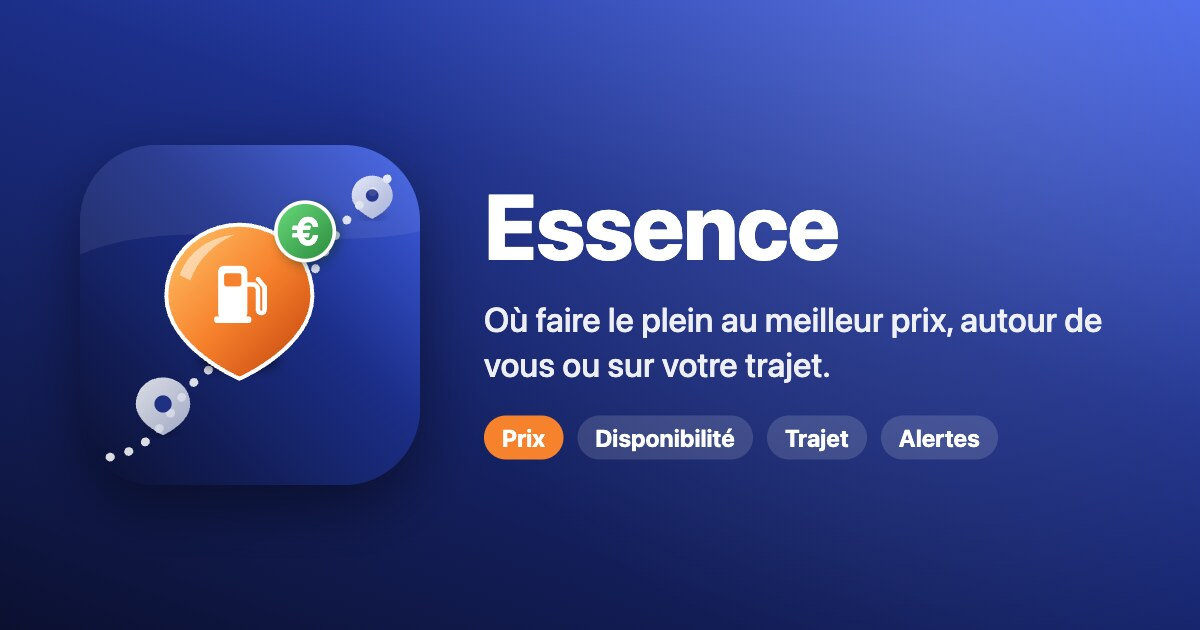
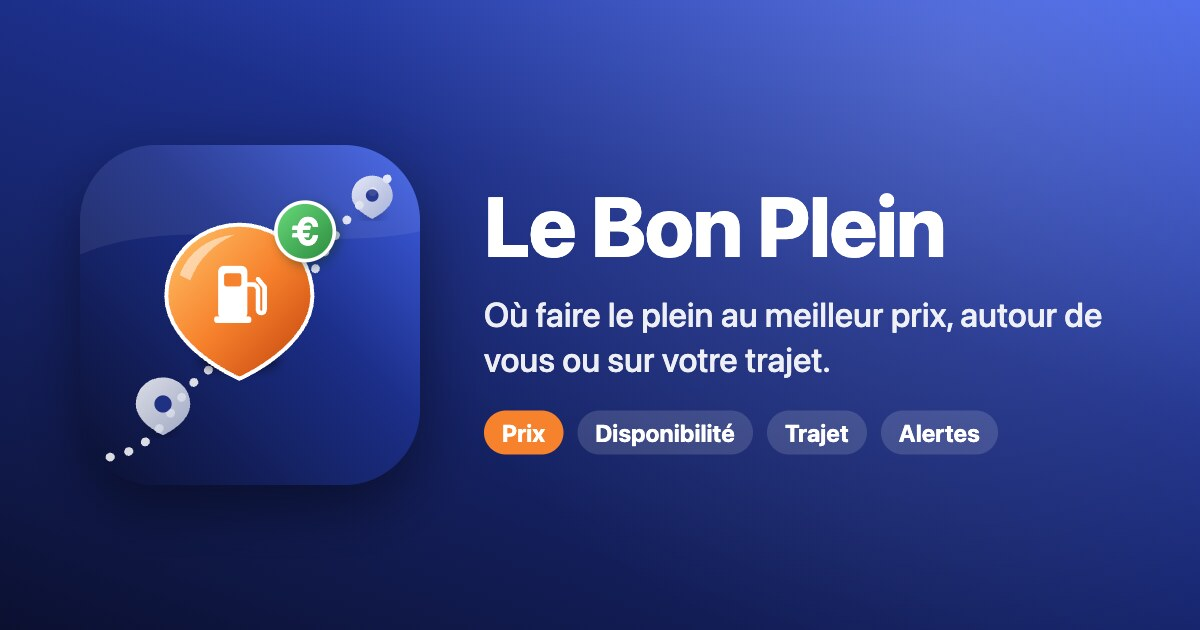
L'app s'appelle « Le Bon Plein »
Titre de la page, nom sous l'icône de l'app installée, balises et image
d'aperçu Open Graph, notification par défaut et README. Le dépôt garde son
nom essence-tracker.

diff --git a/index.html b/index.html
@@ -3,18 +3,18 @@
 <head>
 <meta charset="utf-8">
 <meta name="viewport" content="width=device-width, initial-scale=1, viewport-fit=cover">
-<title>Essence</title>
+<title>Le Bon Plein</title>
 <meta name="description" content="Où faire le plein au meilleur prix, autour de vous ou sur votre trajet : prix, disponibilité et alertes de retour d’un carburant.">
 <!-- Link previews (WhatsApp, iMessage, Slack, social networks): absolute URLs, 1200×630 image -->
 <meta property="og:type" content="website">
-<meta property="og:site_name" content="Essence">
-<meta property="og:title" content="Essence — prix et disponibilité des carburants">
+<meta property="og:site_name" content="Le Bon Plein">
+<meta property="og:title" content="Le Bon Plein — prix et disponibilité des carburants">
 <meta property="og:description" content="Où faire le plein au meilleur prix, autour de vous ou sur votre trajet.">
 <meta property="og:url" content="https://tekncoach.github.io/essence-tracker/">
-<meta property="og:image" content="https://tekncoach.github.io/essence-tracker/icons/og.jpg">
+<meta property="og:image" content="https://tekncoach.github.io/essence-tracker/icons/og.jpg?v=2">
 <meta property="og:image:width" content="1200">
 <meta property="og:image:height" content="630">
-<meta property="og:image:alt" content="Icône Essence : un trajet, une station et le prix">
+<meta property="og:image:alt" content="Icône Le Bon Plein : un trajet, une station et le prix">
 <meta property="og:locale" content="fr_FR">
 <meta name="twitter:card" content="summary_large_image">
 <link rel="manifest" href="manifest.webmanifest">
@@ -23,7 +23,7 @@
 <link rel="icon" href="icons/favicon.png" type="image/png">
 <link rel="apple-touch-icon" href="icons/apple-touch-icon.png">
 <meta name="apple-mobile-web-app-capable" content="yes">
-<meta name="apple-mobile-web-app-title" content="Essence">
+<meta name="apple-mobile-web-app-title" content="Le Bon Plein">
 <meta name="apple-mobile-web-app-status-bar-style" content="black-translucent">
 <script>if (navigator.standalone) document.documentElement.classList.add('standalone');</script>
 <link rel="stylesheet" href="https://cdnjs.cloudflare.com/ajax/libs/leaflet/1.9.4/leaflet.min.css">

diff --git a/sw.js b/sw.js
@@ -19,7 +19,7 @@ self.addEventListener('fetch', e => {
 // Fuel return alerts (sent by worker/): show the notification; a tap opens the app on the station.
 self.addEventListener('push', e => {
   const d = e.data ? e.data.json() : {};
-  e.waitUntil(self.registration.showNotification(d.title || 'Essence', {
+  e.waitUntil(self.registration.showNotification(d.title || 'Le Bon Plein', {
     body: d.body || '', icon: 'icons/icon-192.png', data: { url: d.url || './' },
   }));
 });

diff --git a/README.md b/README.md
@@ -1,4 +1,4 @@
-# essence-tracker
+# Le Bon Plein
 
 [![Site](https://img.shields.io/badge/site-tekncoach.github.io%2Fessence--tracker-f08a3c)](https://tekncoach.github.io/essence-tracker/)
 [![Déploiement](https://github.com/tekncoach/essence-tracker/actions/workflows/pages/pages-build-deployment/badge.svg)](https://github.com/tekncoach/essence-tracker/actions/workflows/pages/pages-build-deployment)
@@ -6,7 +6,7 @@
 [![Données](https://img.shields.io/badge/données-prix--carburants.gouv.fr-000091)](https://data.economie.gouv.fr/explore/dataset/prix-des-carburants-en-france-flux-instantane-v2/)
 ![PWA](https://img.shields.io/badge/PWA-installable-5a0fc8)
 
-Carte des stations-service françaises avec le prix, la fraîcheur et la disponibilité de chaque carburant. Page statique, sans compte : tout tourne dans le navigateur, et les réglages de chaque utilisateur (carburants préférés, favoris, point de départ) restent dans son `localStorage`. Seules les alertes de retour d'un carburant passent par un petit service, un Worker Cloudflare (`worker/`).
+`essence-tracker` · Carte des stations-service françaises avec le prix, la fraîcheur et la disponibilité de chaque carburant. Page statique, sans compte : tout tourne dans le navigateur, et les réglages de chaque utilisateur (carburants préférés, favoris, point de départ) restent dans son `localStorage`. Seules les alertes de retour d'un carburant passent par un petit service, un Worker Cloudflare (`worker/`).
 
 ## Fonctionnalités
 
